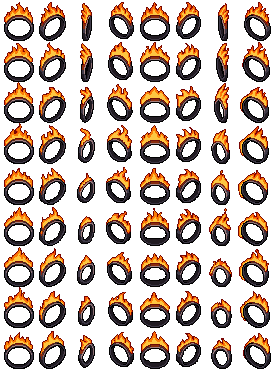
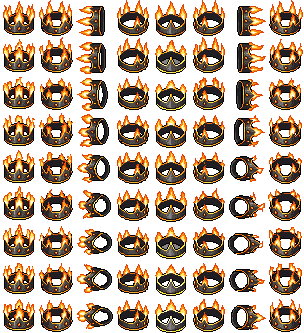
Faster leveling (x8 Base / x12 Job EXP), softer Ember Jarl, new Flame Crown art
The Jarl is now in reach after about half an hour of play: Lv 25, 3,200 HP.
The Flame Circlet is regenerated on the Ember Crown's shape, with flames that loop.

Claude-Session: https://claude.ai/code/session_011XQ9QCw3CGEUAN2nqYKZsD

diff --git a/src/main.js b/src/main.js
@@ -242,7 +242,7 @@ mobs.on('mvp', (m) => {
   fx.number(player.x, overHead(player, 1.7), player.z, 'MVP', 'mvp', player);
   fx.sparkle(player.x, world.heightAt(player.x, player.z) + 1, player.z, '#ffd23a', 30);
   audio.play('levelup');
-  menus.message(`You defeated the ${d.name}! MVP! +${d.mvpExp} Base EXP`);
+  menus.message(`You defeated the ${d.name}! MVP! +${d.mvpExp * RATES.base} Base EXP`);
   for (const [id, n] of d.mvpDrops) {
     const got = inv.add(id, n);
     if (got < n) inv.chest.add(id, n - got);
@@ -255,6 +255,9 @@ mobs.on('mvp', (m) => {
 });
 
 // ---------- experience: Base and Job EXP, like Ragnarok ----------
+// server rates, like a Ragnarok server's "x8 / x12": every Base and Job EXP gain is multiplied.
+// Set high for now so the Ember Jarl is in reach after about half an hour of play.
+const RATES = { base: 8, job: 12 };
 const knownSkills = () => new Set(skillList(prog.job).filter((id) => skillLv(prog, id)));
 function announceSkills(before) {
   for (const id of knownSkills()) if (!before.has(id) && (SKILLS[id].free || SKILLS[id].granted)) menus.message(`New skill: ${SKILLS[id].name}! See the Skills window.`);
@@ -262,7 +265,7 @@ function announceSkills(before) {
 function gainExp(base, job) {
   const k = inv.wearing('exp') ? 1.25 : 1;
   const known = knownSkills();
-  const ups = prog.gain(Math.round(base * k), Math.round(job * k));
+  const ups = prog.gain(Math.round(base * k * RATES.base), Math.round(job * k * RATES.job));
   if (!ups.base && !ups.job) return;
   applyStats();
   const y = world.heightAt(player.x, player.z);

diff --git a/src/mobs.js b/src/mobs.js
@@ -20,7 +20,8 @@ export const MOB_DEFS = {
   wisp:      { name: 'Firefly Wisp', ai: 'wisp', art: 'wisp', lv: 8,  hp: 169, atk: [22, 27], def: 5,  vit: 8,  agi: 20, dex: 17, exp: [19, 15], adelay: 1292, speed: 2.4, aggro: 6, reach: 0.75, w: 0.7, r: 0.3, fly: true, night: true, drops: [['glow', 1, 1, 1], ['wander', 1, 1, 0.15], ['wisp_lantern', 1, 1, 0.004]] },
   // MVP boss of Glodberg: one at a time, back 15 minutes after it falls. Its slayer gets the MVP
   // reward on top of the drops. Stomps the ground around it every few seconds.
-  jarl:      { name: 'Ember Jarl', ai: 'boss', art: 'jarl', lv: 28, hp: 6500, atk: [110, 150], def: 25, vit: 40, agi: 20, dex: 45, exp: [2600, 1800], adelay: 1700, speed: 1.35, aggro: 7, chase: 25, reach: 1.9, w: 3.1, r: 1.15, heavy: true,
+  // (softened for now, for a Base ~25 Swordsman: it would need a party at Ragnarok strength)
+  jarl:      { name: 'Ember Jarl', ai: 'boss', art: 'jarl', lv: 25, hp: 3200, atk: [45, 65], def: 15, vit: 25, agi: 15, dex: 35, exp: [2600, 1800], adelay: 2000, speed: 1.35, aggro: 7, chase: 25, reach: 1.9, w: 3.1, r: 1.15, heavy: true,
     mvp: true, respawn: 900, lair: { x: 32, z: 48 }, mvpExp: 1300, mvpDrops: [['potion3', 3], ['ember_heart', 1]],
     drops: [['potion2', 2, 3, 0.8], ['potion3', 1, 2, 0.5], ['stone', 4, 6, 1], ['ember_crown', 1, 1, 0.05], ['emberbrand', 1, 1, 0.01]] },
 };

diff --git a/README.md b/README.md
@@ -52,7 +52,8 @@ after they fall, twice as fast at night.
 **MVP.** The Ember Jarl waits in the south of Glodberg. It stomps the ground around it every few
 seconds. Whoever brings it down gets **MVP** over their head, bonus Base EXP and MVP items
 straight to the bag, plus its drops (it may drop its crown or its sword). It comes back 15
-minutes later, even if you leave the map or close the game.
+minutes later, even if you leave the map or close the game. For now it is softened (Lv 25,
+3,200 HP) so a Base ~25 Swordsman can take it alone with a few Strong Draughts.
 
 ## Character
 
@@ -60,6 +61,9 @@ Ragnarok's classic rules with Aria's own stat names (see `docs/ragnarok-mechanic
 POW (STR), QKN (AGI), END (VIT), KNL (INT), FNS (DEX), FTN (LUK). Base Level and Job Level
 gain EXP separately; stat points come from Base Levels, skill points from Job Levels. HP does
 not recover while you walk; resting doubles it.
+
+**Rates.** Like a Ragnarok server's "x8 / x12", every Base EXP gain is ×8 and every Job EXP
+gain ×12 (`RATES` in `src/main.js`), so you can reach the Ember Jarl in about half an hour.
 
 ## Skills
 
